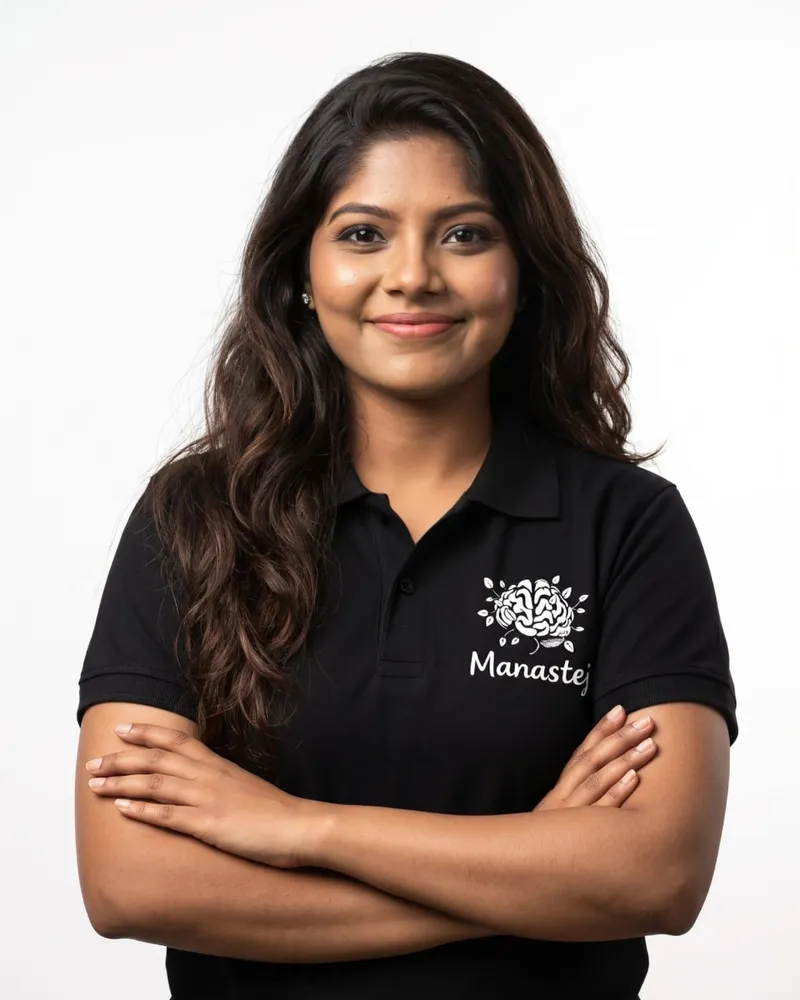
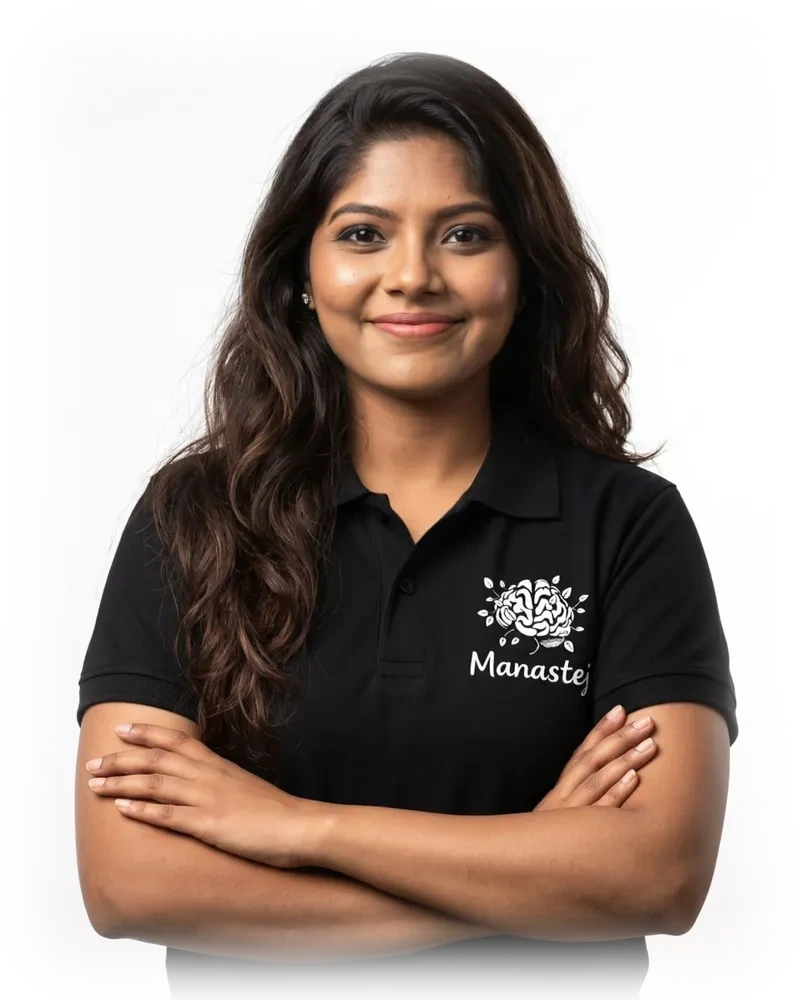
Feather team portraits into transparent edges
Bake a thin soft alpha falloff into the webps so corners melt into
bg-deep without relying on CSS masks that were not showing up.

Changed region(s): [[0.0938, 0.899, 0.875, 1.0], [0.4375, 0.031, 0.625, 0.093], [0.875, 0.62, 0.9375, 0.775]]

diff --git a/src/components/sections/Team.tsx b/src/components/sections/Team.tsx
@@ -23,25 +23,15 @@ export default function Team() {
                 data-rise
                 className={`grid items-center gap-8 md:grid-cols-2 md:gap-14 ${flip ? "md:[&>*:first-child]:order-2" : ""}`}
               >
-                {/* Soft-edged portrait: thin feather into bg-deep, no hard rounded clip */}
+                {/* Photos are pre-feathered to transparent edges so they melt into bg-deep */}
                 <div className="relative aspect-[4/5] md:aspect-[5/6]">
-                  <div
-                    className="absolute inset-0"
-                    style={{
-                      WebkitMaskImage:
-                        "radial-gradient(ellipse 92% 90% at 50% 46%, #000 72%, rgba(0,0,0,0.55) 86%, transparent 100%)",
-                      maskImage:
-                        "radial-gradient(ellipse 92% 90% at 50% 46%, #000 72%, rgba(0,0,0,0.55) 86%, transparent 100%)",
-                    }}
-                  >
-                    <Image
-                      src={m.photo}
-                      alt={`Portrait of ${m.name}`}
-                      fill
-                      sizes="(min-width: 768px) 40vw, 100vw"
-                      className="object-cover object-top"
-                    />
-                  </div>
+                  <Image
+                    src={m.photo}
+                    alt={`Portrait of ${m.name}`}
+                    fill
+                    sizes="(min-width: 768px) 40vw, 100vw"
+                    className="object-cover object-top"
+                  />
                 </div>
                 <div className={flip ? "md:text-right" : ""}>
                   <h3 className="font-serif text-4xl leading-tight text-foam md:text-5xl">{m.name}</h3>
